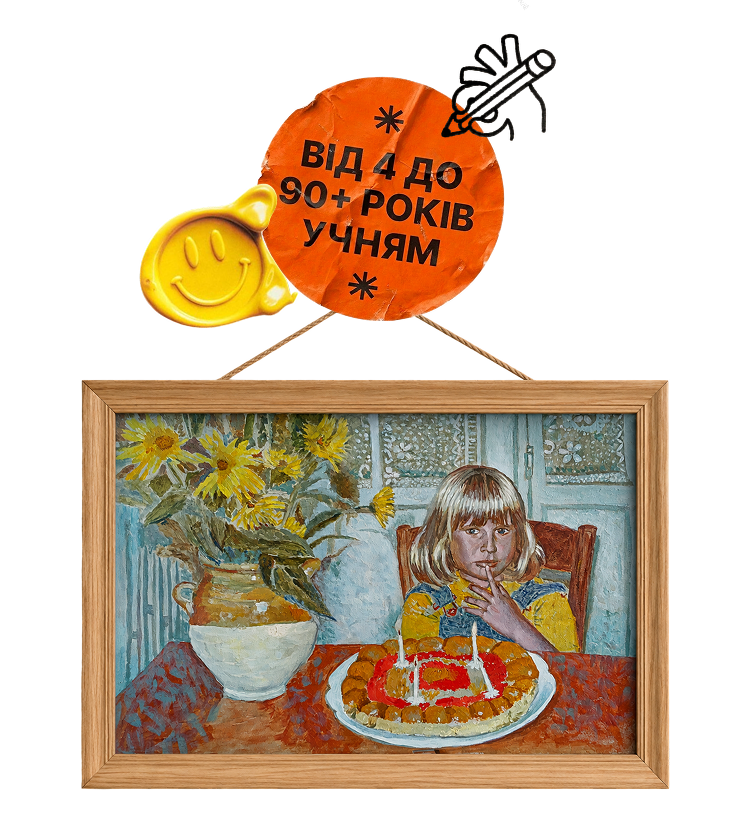
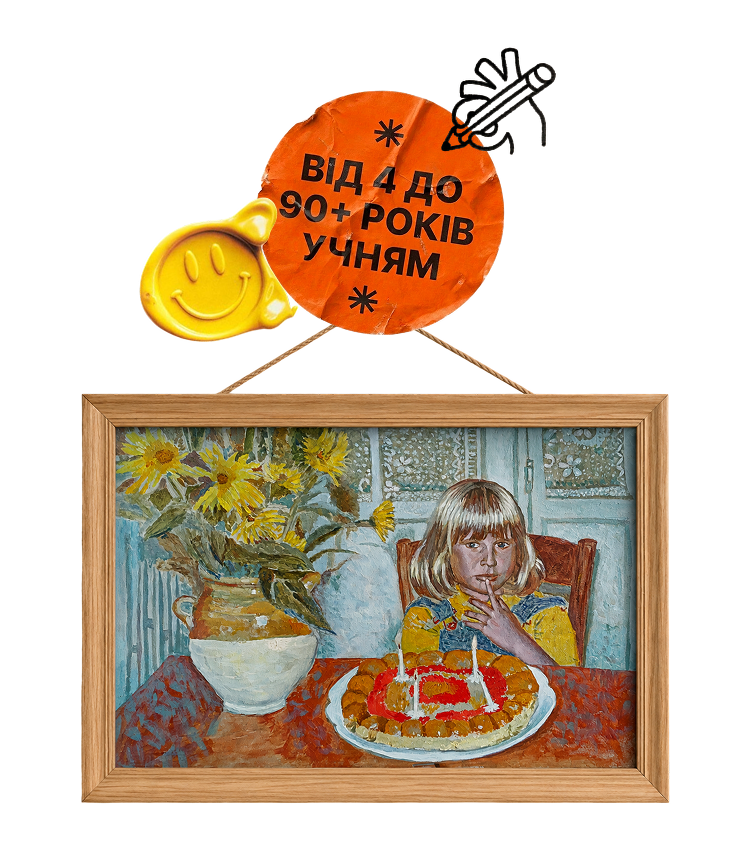
i18n: swap the mobile hero composite per language
Add a French mobile hero composite (painting + badge) and swap the
hero-mobile-combo image and alt by language, matching the desktop badge.

Changed region(s): [[0.0925, 0.0301, 0.8941, 0.9639], [0.8633, 0.9337, 0.8941, 0.9639], [0.1542, 0.753, 0.185, 0.7831]]

diff --git a/site/development/home.html b/site/development/home.html
@@ -1048,7 +1048,7 @@
     <!-- framed painting, bottom-left -->
     <div data-parallax="0.11" class="hero-prop hero-painting swing-wrap load-prop" style="animation-delay:.85s;">
       <img class="swing" src="./assets/painting-girl.png" alt="Картина — дівчинка з тортом" style="width:100%; height:auto; display:block;">
-      <img class="hero-mobile-combo" src="./assets/mobile-hero-painting.png" alt="Картина зі стікером">
+      <img class="hero-mobile-combo" src="./assets/mobile-hero-painting-fr.png?v=1" data-i18n-src-fr="./assets/mobile-hero-painting-fr.png?v=1" data-i18n-src-uk="./assets/mobile-hero-painting.png?v=1" alt="De 4 à 90+ ans aux élèves" data-i18n-alt-fr="De 4 à 90+ ans aux élèves" data-i18n-alt-uk="Від 4 до 90+ років учням">
     </div>
 
     <!-- age badge, bottom-right -->
